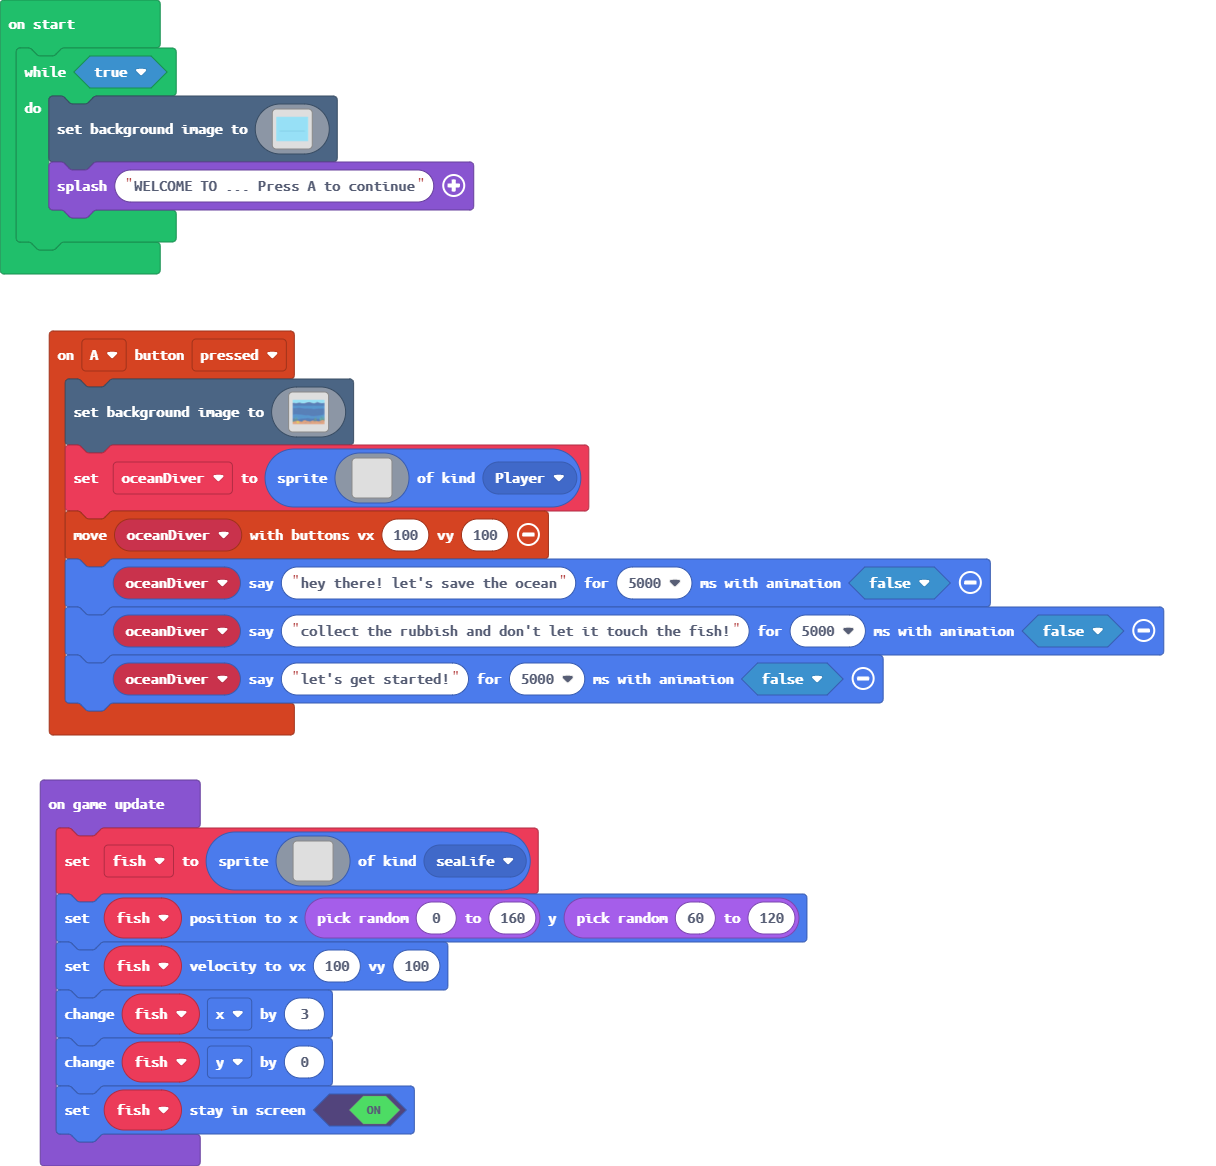
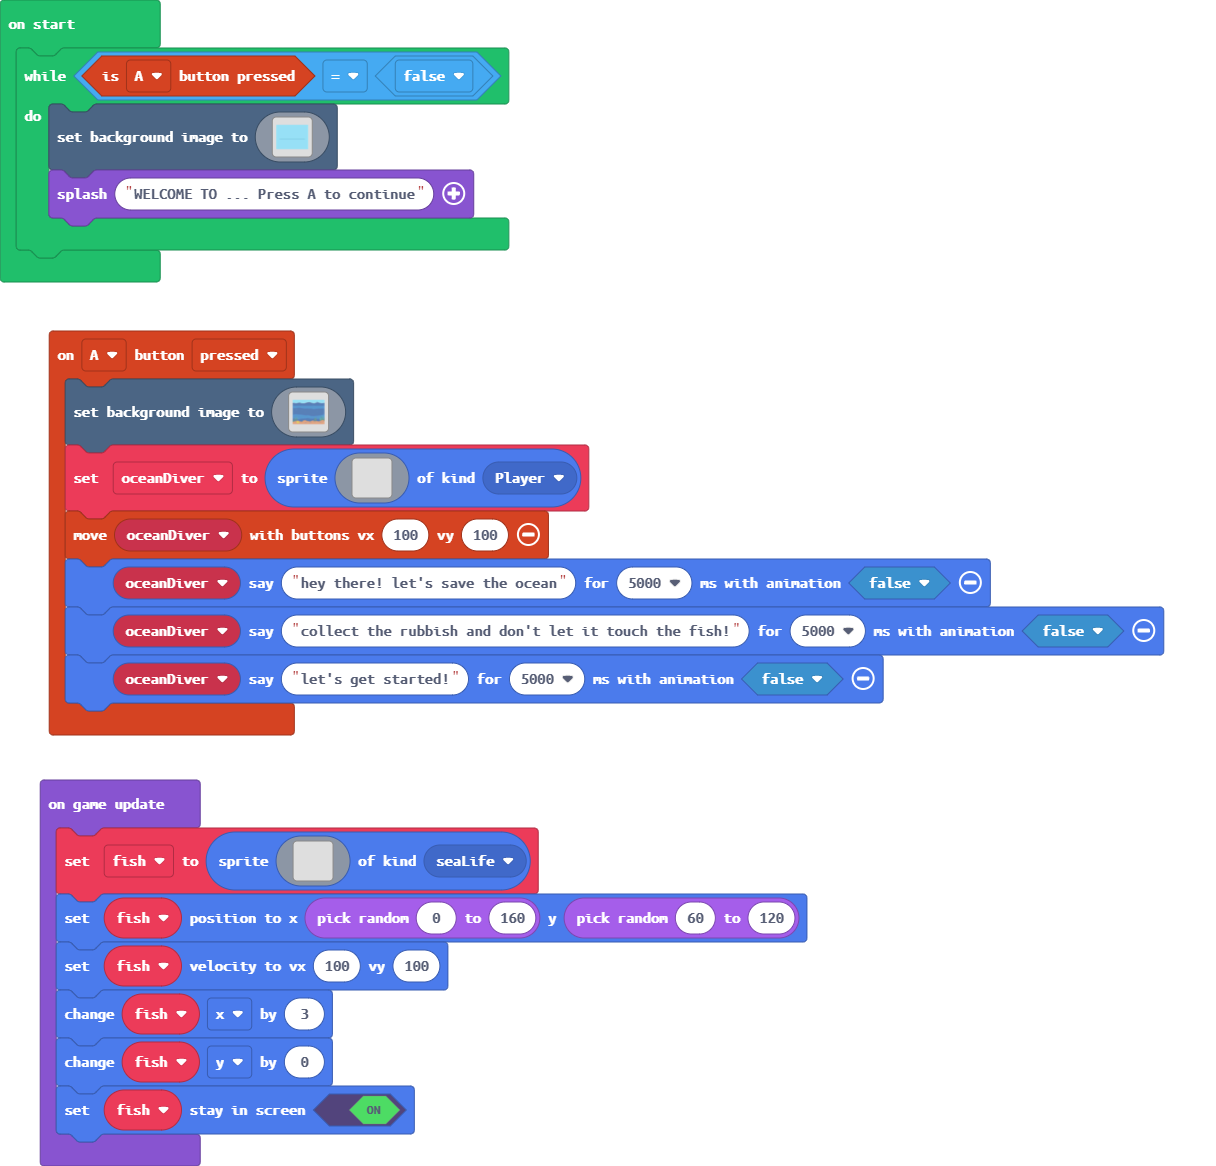
Update main.blocks, main.ts

Changed region(s): [[0.0, 0.0309, 0.4375, 0.247]]

diff --git a/main.ts b/main.ts
@@ -149,7 +149,7 @@ controller.A.onEvent(ControllerButtonEvent.Pressed, function () {
 })
 let fish: Sprite = null
 let oceanDiver: Sprite = null
-while (true) {
+while (controller.A.isPressed() == false) {
     scene.setBackgroundImage(img`
         2222222222222222222222222222222222222222222222222222222222222222222222222222222222222222222222222222222222222222222222222222222222222222222222222222222222222222
         2222222222222222222222222222222222222222222222222222222222222222222222222222222222222222222222222222222222222222222222222222222222222222222222222222222222222222
